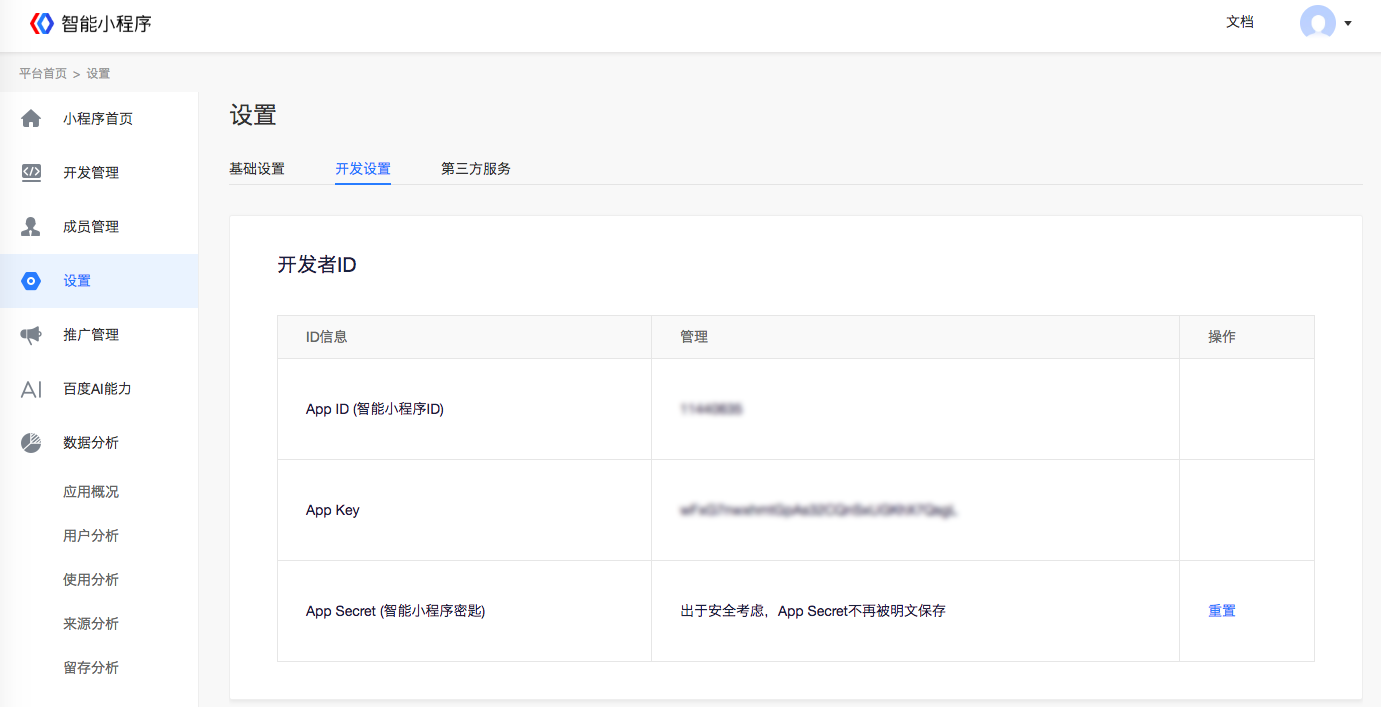
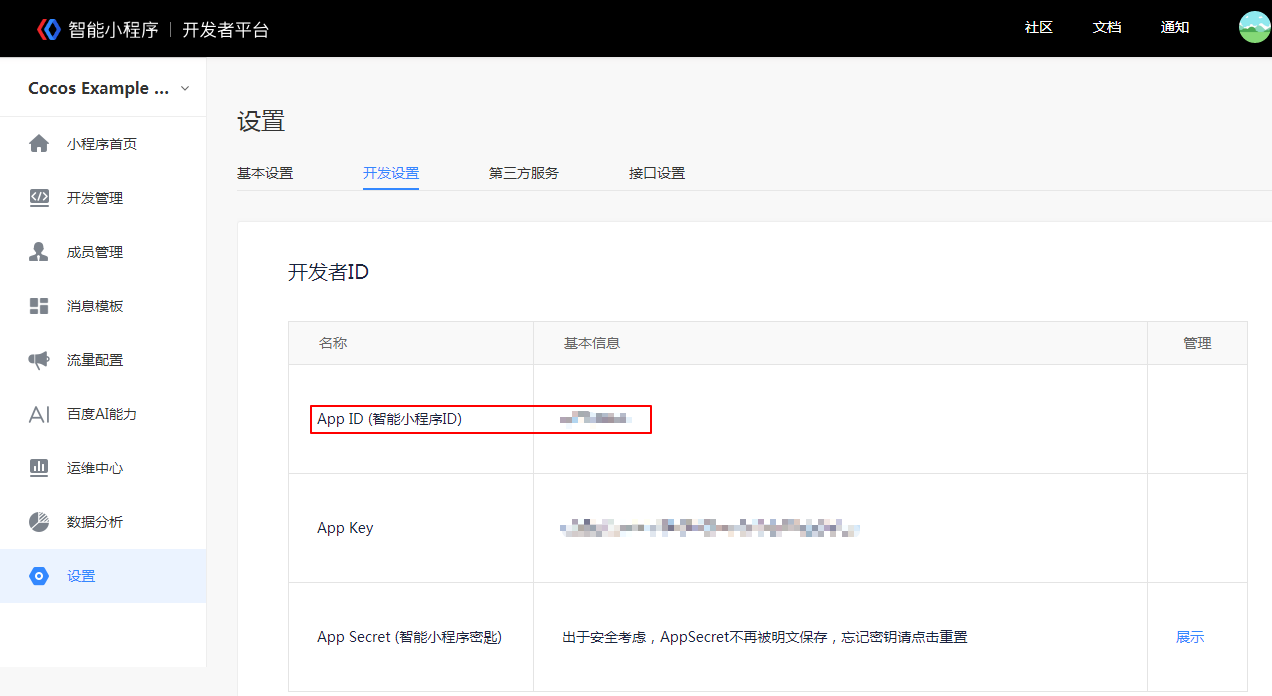
完善发布到百度小游戏和微信小游戏

diff --git a/zh/publish/publish-wechatgame-sub-domain.md b/zh/publish/publish-wechatgame-sub-domain.md
@@ -1,21 +1,21 @@
 # 接入微信小游戏的开放数据域
 
-微信小游戏为了保护其社交关系链数据，增加了 **开放数据域** 的概念，这是一个单独的游戏执行环境。开放数据域中的资源、引擎、程序，都和主游戏完全隔离，开发者只有在开放数据域中才能访问微信提供的 wx.getFriendCloudStorage() 和 wx.getGroupCloudStorage() 两个 API，用于实现一些例如排行榜的功能。由于开放数据域只能在离屏画布 sharedCanvas 上渲染，因此需要我们把 sharedCanvas 绘制到主域上。
+微信小游戏为了保护其社交关系链数据，增加了 **开放数据域** 的概念，这是一个单独的游戏执行环境。开放数据域中的资源、引擎、程序，都和主游戏完全隔离，开发者只有在开放数据域中才能访问微信提供的 `wx.getFriendCloudStorage()` 和 `wx.getGroupCloudStorage()` 两个 API，用于实现一些例如排行榜的功能。由于开放数据域只能在离屏画布 sharedCanvas 上渲染，因此需要我们把 sharedCanvas 绘制到主域上。
 
 由于开放数据域是一个封闭、独立的 JavaScript 作用域，所以开发者需要创建两个项目：
 
 - 主域项目工程（正常的游戏项目）
 - 开放数据域项目工程（通过微信 API 获取用户数据来做排行榜等功能的项目）
 
-在开放数据域项目工程中，独立通过开放数据域打包流程打包，并放置到主域工程的微信 build 包中，就可以作为完整的微信工程在模拟器和真机上进行预览调试了。
+在开放数据域项目工程中，独立通过开放数据域打包流程打包，并将构建后生成的发布包放置到主域工程的发布包 **build** 目录中，就可以作为完整的微信工程在模拟器和真机上进行预览调试了。
 
 Cocos Creator 从 v1.9.1 版本开始支持打包到开放数据域，在 v2.0.1 中做了一次重要更新，两个版本之间的使用方式不同，下面分别介绍。
 
-# 新版本开放数据域发布
+## 新版本微信小游戏开放数据域
 
-适用于 v2.0.1 及更高版本，v1.9.1 到 v2.0.0 版本请参考[旧版本开放数据域发布](./publish-wechatgame-sub-domain.md#旧版本开放数据域发布)。
+适用于 v2.0.1 及更高版本，v1.9.1 到 v2.0.0 版本请参考下方的 [旧版本微信小游戏开放数据域发布](./publish-wechatgame-sub-domain.md#旧版本开放数据域发布)。
 
-## 整合方法
+### 整合方法
 
 - 创建开放数据域项目通过相关的 API 获取用户数据，根据自身需求制作 ui 的展示。整个开放数据域项目只应该包含其内容 UI，并且应该将场景中 Canvas 组件的设计分辨率设置为 UI 的完整分辨率，不需要对应主域的分辨率。
 - 主域中创建一个节点作为开放数据域容器，添加 WXSubContextView 组件用于设置开放数据域视窗以及更新开放数据域贴图，这个节点的宽高比应该等于开放数据域设计分辨率的宽高比（否则会出现拉伸）。
@@ -27,37 +27,37 @@ Cocos Creator 从 v1.9.1 版本开始支持打包到开放数据域，在 v2.0.1
 3. 开放数据域的事件响应由引擎处理好，用户不需要关心。
 4. 开放数据域的贴图更新由引擎处理，用户不需要关心。
 
-## WXSubContextView 技巧
+### WXSubContextView 技巧
 
 这是新开放数据域方案的核心组件，通过这个组件除了常规的需求可以满足以外，还有一些小技巧可以方便用户更好地控制开放数据域的表现。
 
-1. 视窗更新
+- **视窗更新**
 
-    一般情况下，开放数据域的视窗是固定的，但是也存在开放数据域在主域的视窗节点发生更新的情况，比如使用 Widget 去适配父节点，比如场景切换后设计分辨率发生改变的情况，或者是开发者手动调整了视窗的尺寸。这种情况下，开发者必须要调用 `updateSubContextViewport` 接口来更新开放数据域中的视窗参数，以便事件可以被正确映射到开放数据域视窗中
+  一般情况下，开放数据域的视窗是固定的，但是也存在开放数据域在主域的视窗节点发生更新的情况，比如使用 Widget 去适配父节点，比如场景切换后设计分辨率发生改变的情况，或者是开发者手动调整了视窗的尺寸。这种情况下，开发者必须要调用 `updateSubContextViewport` 接口来更新开放数据域中的视窗参数，以便事件可以被正确映射到开放数据域视窗中
 
-2. 手动更新贴图
+- **手动更新贴图**
 
-    当开放数据域被唤起后，只要 WXSubContextView 组件 load 成功，开放数据域贴图就开始更新到主域并显示，之后每帧都会更新贴图。但是开放数据域贴图的更新有时可能损耗比较高，开发者设计的开放数据域又是静态界面（比如翻页式的界面），此时就不需要每帧更新贴图，可以尝试通过禁用组件来阻止每帧更新逻辑，并通过手动调用 update 函数来在需要的时候更新：
+  当开放数据域被唤起后，只要 **WXSubContextView** 组件 load 成功，开放数据域贴图就开始更新到主域并显示，之后每帧都会更新贴图。但是开放数据域贴图的更新有时可能损耗比较高，开发者设计的开放数据域又是静态界面（比如翻页式的界面），此时就不需要每帧更新贴图，可以尝试通过禁用组件来阻止每帧更新逻辑，并通过手动调用 update 函数来在需要的时候更新：
 
-    ```
-    subContextView.enabled = false;
-    subContextView.update();
-    ```
+  ```js
+  subContextView.enabled = false;
+  subContextView.update();
+  ```
 
-    这样手动控制是性能最优的方案。
+  这样手动控制是性能最优的方案。
 
-## 模块选择
+### 模块选择
 
-由于微信开放数据域的代码和资源都无法与主域共享，所以对包体很敏感，开发者需要对开放数据域工程专门设置[项目模块剔除选项](../getting-started/basics/editor-panels/project-settings.md)。需要注意的是，从 v2.0.0 开始，开发者在开放数据域项目中不能够勾选 WebGL Renderer，必须勾选 Canvas Renderer，因为开放数据域仅支持 Canvas 渲染。同时，Canvas 渲染下所支持的渲染组件也是受限的（UI 组件不受限制），目前仅支持：
+由于微信开放数据域的代码和资源都无法与主域共享，所以对包体很敏感，开发者需要对开放数据域工程专门设置 [项目模块剔除选项](../getting-started/basics/editor-panels/project-settings.md)。需要注意的是，从 v2.0.0 开始，开发者在开放数据域项目中不能够勾选 WebGL Renderer，必须勾选 Canvas Renderer，因为开放数据域仅支持 Canvas 渲染。同时，Canvas 渲染下所支持的渲染组件也是受限的（UI 组件不受限制），目前仅支持：
 
 - Sprite
 - Label
 - Graphics
 - Mask
 
-## 发布步骤
+### 新版本微信小游戏开放数据域发布流程
 
-一、打开主域项目，在 `菜单栏` - `项目` 中打开构建发布面板，选择 `Wechat Game` 平台，填入 [开放数据域代码目录]。该目录是开放数据域构建后所在的路径，并且这个路径需要放在主域构建目录下。然后点击 **构建**。
+一、打开主域项目，在 **菜单栏 -> 项目** 中打开  **构建发布** 面板，选择 **微信小游戏** 平台，填入 **开放数据域代码目录**。该目录是开放数据域构建后所在的路径，并且这个路径需要放在主域构建目录下。然后点击 **构建**。
 
 ![](./publish-wechatgame/maintest-build.png)
 
@@ -65,23 +65,23 @@ Cocos Creator 从 v1.9.1 版本开始支持打包到开放数据域，在 v2.0.1
 
 ![](./publish-wechatgame/game-json.png)
 
-二、打开开放数据域项目，打开构建发布面板，选择 `Wechat Game Open Data Context` 平台。
+二、打开开放数据域项目，打开 **构建发布** 面板，选择 **微信小游戏开放数据域** 平台。
 
-三、**发布路径** 设置为主域中填入的 [开放数据域代码目录] 相同路径，即指定到主域项目工程的发布包目录下。然后点击 **构建**。
+三、**发布路径** 指定到主域项目工程的发布包目录即 **build** 目录下。然后点击 **构建**。
 
-**注意** ：**游戏名称** 必须和主域项目中设置的 [开放数据域代码目录] 名称一致。
+**注意**：**游戏名称** 必须和主域项目中设置的 **开放数据域代码目录** 名称一致。
 
 ![](./publish-wechatgame/open-data-project-build.png)
 
-或者可以不修改 **发布路径**，在开放数据域项目构建完成后手动将发布包拷贝到主域项目的发布包目录下。如下图所示：
+或者可以不修改开放数据域的 **发布路径**，在开放数据域项目构建完成后手动将发布包拷贝到主域项目的发布包目录下。如下图所示：
 
 ![](./publish-wechatgame/package.png)
 
-四、在主域项目工程中点击 [运行] 调起微信开发者工具，即可按照之前微信小游戏的正常流程进行发布和调试。
+四、在主域项目工程的 **构建发布** 面板中点击 **运行** 调起微信开发者工具，即可按照之前微信小游戏的正常流程进行发布和调试。
 
 ![](./publish-wechatgame/preview.png)
 
-**注意：如果先发布开放数据域域再发布主域，那么开放数据域的发布代码会被覆盖，我们会在后续版本优化体验**
+**注意：如果先构建开放数据域再构建主域，那么开放数据域的发布代码会被覆盖。我们已在 v2.0.7 版本中修复该问题**
 
 ## 参考链接
 
@@ -91,18 +91,19 @@ Cocos Creator 提供的 [开放数据域范例工程](https://github.com/cocos-c
 
 ---------------------
 
-# 旧版本开放数据域发布
+## 旧版本开放数据域
 
 以下方法适用于 v2.0.0，更早的版本请参考 [接入微信小游戏的开放数据域](../../../1.10/manual/zh/publish/publish-wechatgame.html)
 
-## 整合方法
+### 整合方法
 
 - 创建开放数据域项目通过相关的 API 获取用户数据，根据自身需求制作 ui 的展示。开放数据域必须使用全屏窗口，与主域保持一样的设计分辨率和适配模式。
+
 - 主域中通过获取全局对象 sharedCanvas（开放数据域的 Canvas），进行创建 Texture2D ，然后再通过 Texture2D 创建 SpriteFrame，从而把 SpriteFrame 赋值到主域所需要显示到的 Sprite 上，如果开放数据域有操作性功能（例如：滑动，拖拽等之类的操作），那么主域就需要在 update 中实时获取 sharedCanvas 来刷新 Sprite。
 
-## 模块选择
+### 模块选择
 
-由于微信开放数据域的代码和资源都无法与主域共享，所以对包体很敏感，开发者需要对开放数据域工程专门设置[项目模块剔除选项](../getting-started/basics/editor-panels/project-settings.md)。需要注意的是，从 v2.0.0 开始，开发者在开放数据域项目中不能够勾选 WebGL Renderer，必须勾选 Canvas Renderer，因为开放数据域仅支持 Canvas 渲染。同时，Canvas 渲染下所支持的渲染组件也是受限的（UI 组件不受限制），目前仅支持：
+由于微信开放数据域的代码和资源都无法与主域共享，所以对包体很敏感，开发者需要对开放数据域工程专门设置 [项目模块剔除选项](../getting-started/basics/editor-panels/project-settings.md)。需要注意的是，从 v2.0.0 开始，开发者在开放数据域项目中不能够勾选 WebGL Renderer，必须勾选 Canvas Renderer，因为开放数据域仅支持 Canvas 渲染。同时，Canvas 渲染下所支持的渲染组件也是受限的（UI 组件不受限制），目前仅支持：
 
 - Sprite
 - Label
@@ -137,9 +138,9 @@ Cocos Creator 提供的 [开放数据域范例工程](https://github.com/cocos-c
     });
 ```
 
-## 发布步骤
+### 旧版本微信小游戏开放数据域发布流程
 
-一、打开主域项目，在 `菜单栏` - `项目` 中打开构建发布面板，选择 `Wechat Game` 平台，填入 [开放数据域代码目录]。该目录是开放数据域构建后所在的路径，并且这个路径需要放在主域构建目录下。然后点击 **构建**。
+一、打开主域项目，在 **菜单栏 -> 项目** 中打开 **构建发布** 面板，选择 **微信小游戏** 平台，填入 **开放数据域代码目录**。该目录是开放数据域构建后所在的路径，并且这个路径需要放在主域构建目录下。然后点击 **构建**。
 
 ![](./publish-wechatgame/maintest-build.png)
 
@@ -147,24 +148,24 @@ Cocos Creator 提供的 [开放数据域范例工程](https://github.com/cocos-c
 
 ![](./publish-wechatgame/game-json.png)
 
-二、打开开放数据域项目，打开构建发布面板，选择 `Wechat Game Open Data Context` 平台。
+二、打开开放数据域项目，打开 **构建发布** 面板，选择 **微信小游戏开放数据域** 平台。
 
-三、**发布路径** 设置为主域中填入的 [开放数据域代码目录] 相同路径，即指定到主域项目工程的发布包目录下。然后点击 **构建**。
+三、**发布路径** 指定到主域项目工程的发布包目录即 **build** 目录下。然后点击 **构建**。
 
-**注意** ：**游戏名称** 必须和主域项目中设置的 [开放数据域代码目录] 名称一致。
+**注意**：**游戏名称** 必须和主域项目中设置的 **开放数据域代码目录** 名称一致。
 
 ![](./publish-wechatgame/open-data-project-build.png)
 
-或者可以不修改 **发布路径**，在开放数据域项目构建完成后手动将发布包拷贝到主域项目的发布包目录下。如下图所示：
+或者可以不修改开放数据域的 **发布路径**，在开放数据域项目构建完成后手动将发布包拷贝到主域项目的发布包目录下。如下图所示：
 
 ![](./publish-wechatgame/package.png)
 
-四、在主域项目工程中点击 [运行] 调起微信开发者工具，即可按照之前微信小游戏的正常流程进行发布和调试。
+四、在主域项目工程中点击 **运行** 调起微信开发者工具，即可按照之前微信小游戏的正常流程进行发布和调试。
 
 ![](./publish-wechatgame/preview.png)
 
-## 参考链接
+### 参考链接
 
-Cocos Creator 提供的 [开放数据域范例工程](https://github.com/cocos-creator/demo-wechat-subdomain/archive/1.x.zip) 包含了微信开放数据域的使用示例。
+Cocos Creator 提供的 [微信小游戏开放数据域范例工程](https://github.com/cocos-creator/demo-wechat-subdomain/archive/1.x.zip) 包含了微信小游戏开放数据域的使用示例。
 
 [微信官方文档：关系链数据使用指南](https://developers.weixin.qq.com/minigame/dev/tutorial/open-ability/open-data.html)

diff --git a/zh/publish/publish-wechatgame.md b/zh/publish/publish-wechatgame.md
@@ -10,12 +10,6 @@
 - 如何使用 Cocos Creator 发布微信小游戏
 - 小游戏资源管理
 
-与这篇文档搭配的还有一段教学视频，可以结合视频中的操作来理解，更加直观。
-
-{% raw %}
-<iframe frameborder="0" width="100%" height="440" src="https://v.qq.com/iframe/player.html?vid=c05255stri7&tiny=0&auto=0" allowfullscreen></iframe>
-{% endraw %}
-
 ## 微信小游戏平台
 
 微信小游戏是微信小程序下的游戏产品平台，它不仅提供了强大的游戏能力，还和小程序一样，提供了大量的原生接口，比如支付，社交，文件系统，照片，NFC 等。相当于同时结合了 WEB 易于传播以及 Native 功能丰富的优势。
@@ -32,10 +26,10 @@
 
 ## 使用 Cocos Creator 发布微信小游戏
 
-我们从 Cocos Creator v1.8 开始，支持 Cocos Creator 游戏一键发布为微信小游戏，下面是详细的发布步骤：
+Cocos Creator 从 v1.8 开始支持将游戏发布为微信小游戏，下面是详细的发布步骤：
 
-1. 在[微信公众平台](https://mp.weixin.qq.com/debug/wxagame/dev/devtools/download.html)下载微信开发者工具
-2. 在 "Creator 设置" > "原生开发环境" 中设置微信开发者工具路径
+1. 在 [微信公众平台](https://mp.weixin.qq.com/debug/wxagame/dev/devtools/download.html) 下载微信开发者工具
+2. 在编辑器菜单栏的 [设置](../getting-started/basics/editor-panels/preferences.html#%E5%8E%9F%E7%94%9F%E5%BC%80%E5%8F%91%E7%8E%AF%E5%A2%83) 中设置微信开发者工具路径
 
     ![](./publish-wechatgame/preference.jpg)
 3. 登陆微信公众平台，找到 appid
@@ -48,10 +42,10 @@
 6. 点击 play 打开微信开发者工具
 
     ![](./publish-wechatgame/tool.jpeg)
-**注意**：微信开发者工具，在 Mac 上如果没运行过，会报错：`Please ensure that the IDE has been properly installed`。需要手动打开一次微信开发者工具，然后才能在 Creator 里直接点击 **play** 调用。
+**注意**：微信开发者工具，如果之前在 Mac 上没运行过，会出现：`Please ensure that the IDE has been properly installed` 的报错。需要手动打开一次微信开发者工具，然后才能在 Creator 里直接点击 **play** 调用。
 7. 预览部署
 
-按照这样的流程，项目的 build 目录下就会生成一个微信小游戏的发布包，其中已经包含了微信小游戏环境的配置文件：game.json 和 project.config.json
+按照这样的流程，项目的 build 目录下就会生成一个微信小游戏的发布包 **wechatgame** 文件夹，其中已经包含了微信小游戏环境的配置文件：`game.json` 和 `project.config.json`
 
 ![](./publish-wechatgame/package.jpeg)
 
@@ -83,8 +77,8 @@
 1. 构建时，勾选 md5Cache 功能。
 2. 将小游戏发布包中的 res 文件夹完整的上传到服务器。
 3. 删除发布包内的 res 文件夹。
-4. 在构建发布面板中设置 `远程服务地址`。
-5. 对于测试阶段来说，可能你无法部署到正式服务器上，需要用本地服务器来测试，那么请在微信开发者工具中打开详情页面，勾选项目设置中的 `不检验安全域名、TLS 版本以及 HTTPS 证书` 选项。
+4. 在构建发布面板中设置 **远程服务器地址**。
+5. 对于测试阶段来说，可能你无法部署到正式服务器上，需要用本地服务器来测试，那么请在微信开发者工具中打开详情页面，勾选项目设置中的 **不检验安全域名、TLS 版本以及 HTTPS 证书** 选项。
 
 ![](./publish-wechatgame/detail.jpeg)
 
@@ -107,7 +101,7 @@
 
 ## 接入微信小游戏的开放数据域
 
-微信小游戏为了保护其社交关系链数据，增加了 **开放数据域** 的概念，这是一个单独的游戏执行环境。开放数据域中的资源、引擎、程序，都和主游戏完全隔离，开发者只有在开放数据域中才能访问微信提供的 wx.getFriendCloudStorage() 和 wx.getGroupCloudStorage() 两个 API，用于实现一些例如排行榜的功能。
+微信小游戏为了保护其社交关系链数据，增加了 **开放数据域** 的概念，这是一个单独的游戏执行环境。开放数据域中的资源、引擎、程序，都和主游戏完全隔离，开发者只有在开放数据域中才能访问微信提供的 `wx.getFriendCloudStorage()` 和 `wx.getGroupCloudStorage()` 两个 API，用于实现一些例如排行榜的功能。
 
 Cocos Creator 从 v1.9.1 版本开始支持打包到开放数据域，详情请参考 [接入微信小游戏的开放数据域](../publish/publish-wechatgame-sub-domain.md)。
 

diff --git a/zh/index.md b/zh/index.md
@@ -6,6 +6,7 @@
 
 ## 特别推荐
 
+- 从 v2.0.9 开始，Cocos Creator 支持发布到 [百度小游戏平台](publish/publish-baidugame.md)。
 - 从 v2.0.7 开始，Cocos Creator 支持发布到 [华为快游戏平台](publish/publish-huawei-fast-games.md)。
 - 从 v2.0.5 开始，Cocos Creator 支持发布到 [OPPO 小游戏平台](publish/publish-oppo-instant-games.md) 及 [vivo 小游戏平台](publish/publish-vivo-instant-games.md)。
 - 从 v2.0.4 开始，Cocos Creator 支持发布到 [Google Play Instant](publish/publish-android-instant.md)

diff --git a/zh/publish/index.md b/zh/publish/index.md
@@ -6,6 +6,8 @@
 - [原生平台 JavaScript 调试](debug-jsb.md)
 - [发布到微信小游戏平台](publish-wechatgame.md)
     - [微信小游戏开放数据域](publish-wechatgame-sub-domain.md)
+- [发布到百度小游戏平台](publish-baidugame.md)
+    - [百度小游戏开放数据域](publish-baidugame-sub-domain.md)
 - [发布到 QQ「玩一玩」平台](publish-qqplay.md)
 - [发布到 Facebook Instant Games 平台](publish-fb-instant-games.md)
 - [发布到 Google Play Instant 平台](publish-android-instant.md)
